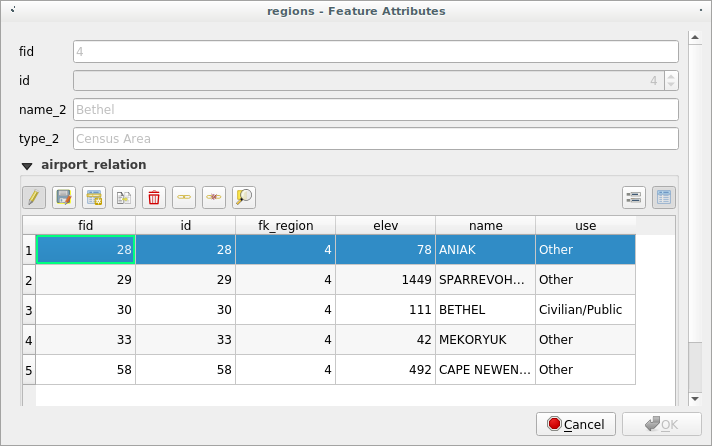
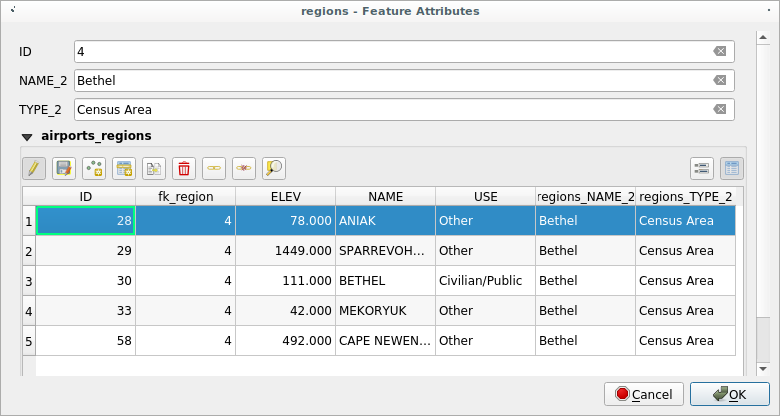
Add geometry creation from the relation editor widget

diff --git a/source/docs/user_manual/working_with_vector/attribute_table.rst b/source/docs/user_manual/working_with_vector/attribute_table.rst
@@ -734,6 +734,9 @@ a table. And there are also some buttons available. Let's review them shortly:
 * The |saveEdits| button is for saving all the edits.
 * The |newTableRow| button will add a new record to the airport layer attribute table.
   And it will assign the new airport to the current region by default.
+* The |newTableRowWithGeom| is the same as |newTableRow| but let you digitize the
+  airport geometry in the map canvas beforehand. Note that icon will change according
+  to geometry type.
 * The |duplicateFeature| button allows you to copy one or more child features.
 * The |deleteSelectedFeatures| button will delete the selected airport
   permanently.
@@ -1018,6 +1021,8 @@ table.
 .. |newAttribute| image:: /static/common/mActionNewAttribute.png
    :width: 1.5em
 .. |newTableRow| image:: /static/common/mActionNewTableRow.png
+   :width: 1.5em
+.. |newTableRowWithGeom| image:: /static/common/mActionCapturePoint.png
    :width: 1.5em
 .. |openTable| image:: /static/common/mActionOpenTable.png
    :width: 1.5em
